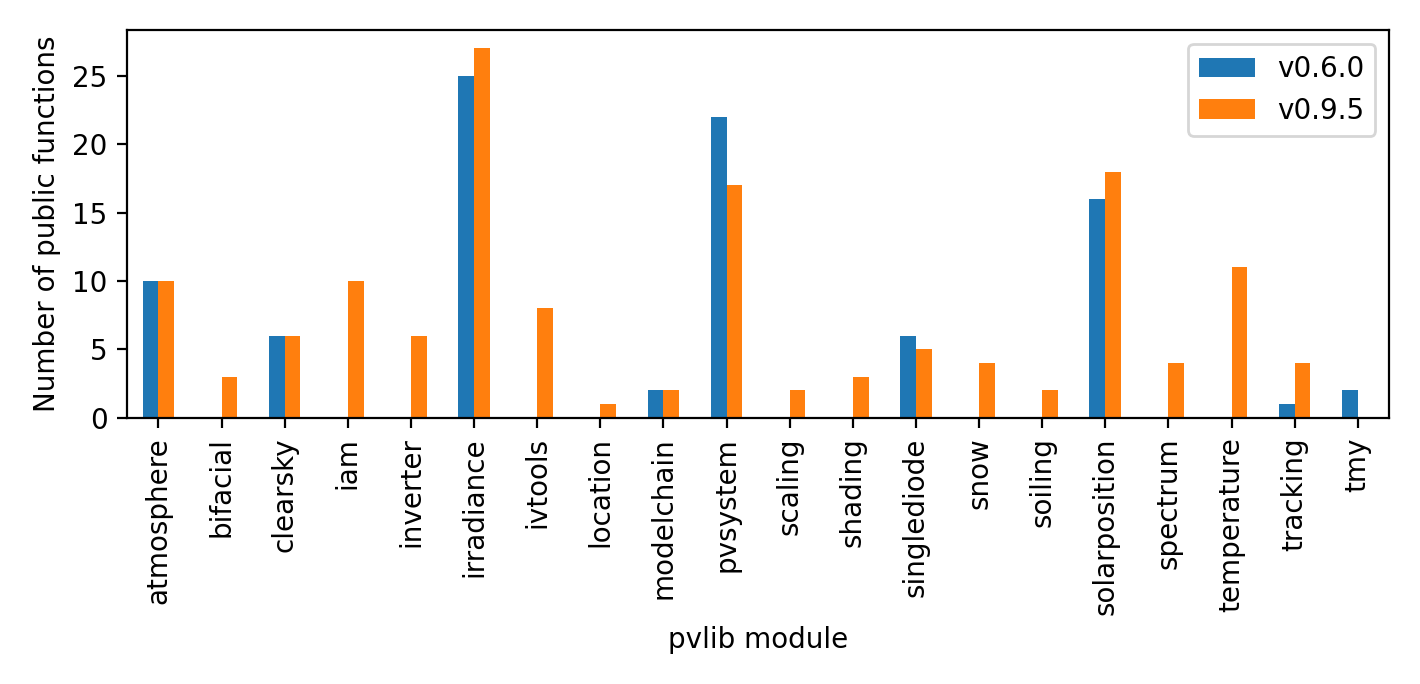
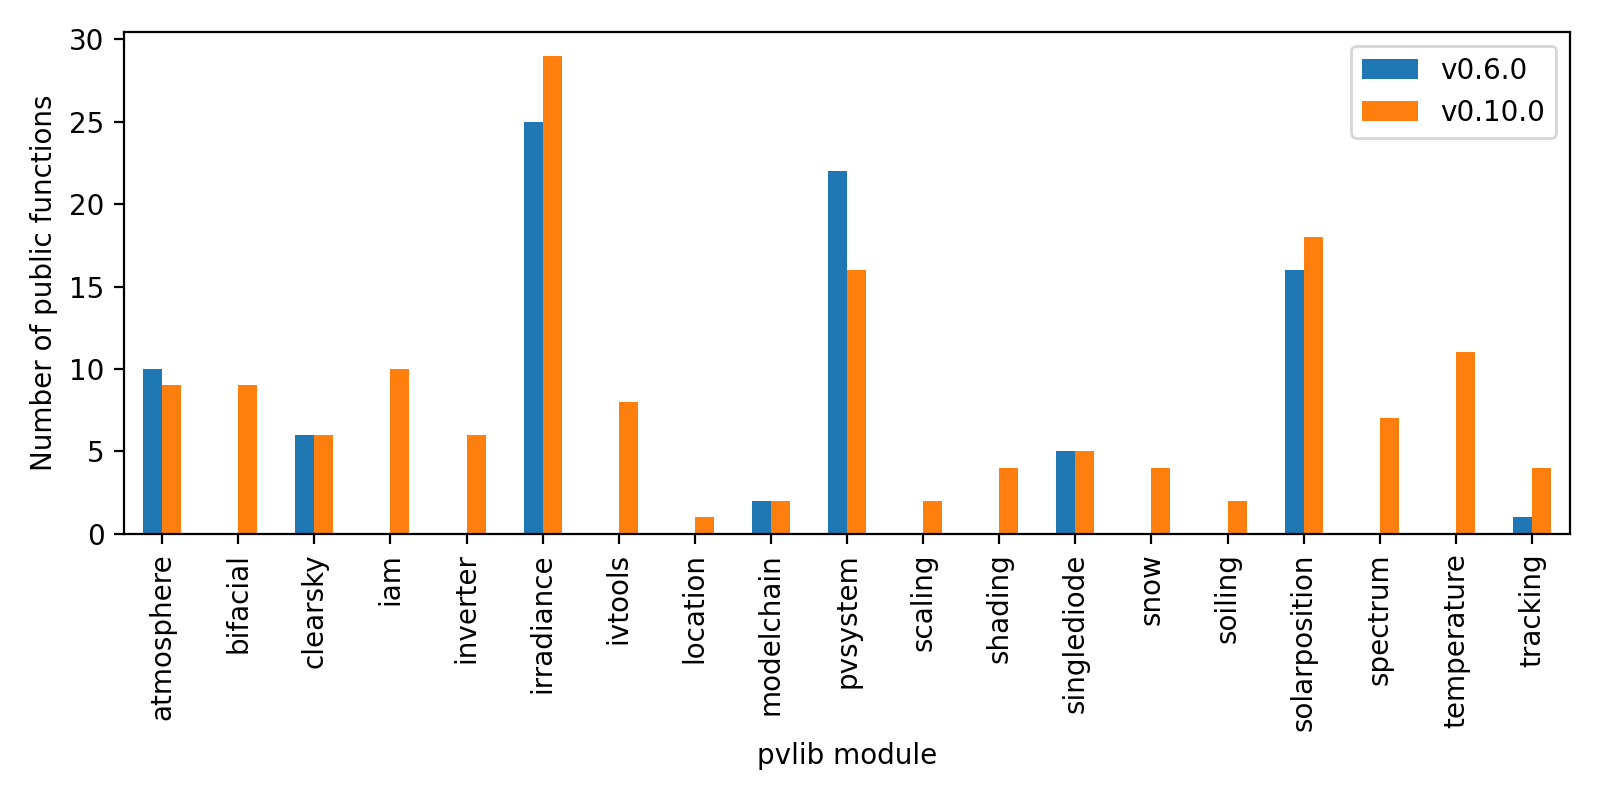
a bit of rewrite

Changed region(s): [[0.0, 0.0307, 0.9915, 0.9211], [0.4648, 0.9211, 0.6197, 0.9518], [0.2479, 0.3991, 0.2789, 0.4605]]

diff --git a/paper/2023/paper.md b/paper/2023/paper.md
@@ -48,31 +48,25 @@ including solar position algorithms, irradiance models, thermal models,
 and PV electrical models.  In addition to these individual low-level
 model implementations, pvlib python provides high-level constructs
 that chain these models together like building blocks to form complete
-"weather-to-power" phovoltaic system models.  It also provides functions to fetch
-and import weather datasets useful for PV modeling.  Unlike other
-popular software for PV modeling, pvlib python integrates natively
-with the rest of the Python ecosystem, making it easy to combine with
-packages for numerical optimization, plotting, and data manipulation,
-to list a few.
+"weather-to-power" phovoltaic system models.
 
-pvlib python has been developed since 2013 and follows modern best
+Unlike other popular software for PV modeling, pvlib python has the benefit
+of integrating natively with a general-purpose programming language (Python).
+In addition to being more flexible and powerful than a traditional graphical
+user interface, pvlib python's interface as a programming library
+allows it to be combined with other Python packages.  This enables
+integration with database query, data manipulation, numerical optimization,
+plotting, and reporting packages, to name just a few.
+
+pvlib python has been developed since 2015 and follows modern best
 practices for open-source python software, with comprehensive automated
-testing, standards-based packaging, and semantic versioning.
-\autoref{fig:timeline} shows a timeline of important events in
-the project's history.
+testing, standards-based packaging, and semantic versioning.  Its emphasis
+on re-use, community, transparency, and peer review has lead to its widespread
+adoption across the PV field [@Stein2022].
 
-![pvlib python major event timeline.\label{fig:timeline}](timeline2.png)
+Here we present an update on pvlib python describing capability
+and community development since our 2018 publication [@pvlibjoss2018].
 
-Python is proving to be the most common choice of programming language
-for open-source PV modeling and analysis software, with pvlib python
-being one member of a growing ecosystem [@Holmgren2018].  Within this
-broader Python-for-PV ecosystem are two packages in the pvlib "family":
-pvanalytics, a package for PV data quality assurance and feature recognition
-algorithms [@pvpmc2022_pvanalytics_update], and twoaxistracking, a package
-for simulating self-shading in arrays with two-axis solar trackers [@Jensen2022].
-
-Here we present an update on pvlib python, describing capability enhancements
-and community growth since our 2018 publication [@pvlibjoss2018].
 
 # Statement of need
 
@@ -95,13 +89,13 @@ The fact that pvlib python is meeting real needs is made evident by several metr
 
 1. Its 2018 JOSS publication, at the time of this writing,
 ranks 14th by citation count out of the 2000+ papers published by JOSS to date.
-2. The project is labeled a "critical project" on the Python Package Index
-(PyPI) due to being in the top 1% of all indexed python packages by download count.
+2. The Python Package Index (PyPI) classifies pvlib-python as "critical project"
+due to being in the top 1% of the index's packages by download count.
 3. The project's online documentation received over 400,000 page views
 in the past year.
 
 
-# Functionality additions from v0.6.0 to v0.9.5
+# Functionality additions from v0.6.0 to v0.10.0
 
 To meet new needs of the PV industry, substantial new functionality has been
 added in the roughly five years since the 2018 JOSS publication.
@@ -113,12 +107,12 @@ new modules within pvlib python.
 Notable additions include models for loss mechanisms like soiling and snow
 coverage, and methods of fitting PV performance models to measurements.
 Also, to meet the demand for modeling bifacial PV which has become
-a mainstream in recent years, new models have been added to pvlib to
+mainstream in recent years, new models have been added to pvlib to
 model rear-side irradiance.
 \autoref{fig:functions-comparison} summarizes the number of models per module
-for pvlib python versions 0.6.0 and 0.9.5.
+for pvlib python versions 0.6.0 and 0.10.0.
 
-![Comparison of public function counts by pvlib module for v0.6.0 and v0.9.5.  Some modules are smaller in v0.9.5 due to moving functions to new modules (e.g. moving functions from `pvsystem` to `iam`, and from `tmy` to `iotools`).\label{fig:functions-comparison}](functions_06_010.png)
+![Comparison of public function counts by pvlib module for v0.6.0 and v0.10.0. Some modules are smaller in v0.10.0 due to moving functions to new modules (e.g. moving functions from `pvsystem` to `iam`).\label{fig:functions-comparison}](functions_06_010.png)
 
 Second, in addition to the new function-level model implementations,
 the package's high-level classes have also been expanded to handle the complexity
@@ -130,8 +124,8 @@ Third, the creation of `pvlib.iotools`, a sub-package for fetching and parsing
 datasets relevant to PV modeling.  These functions provide a standardized
 interface for reading data files in various complex data formats, offering
 conveniences like optionally standardizing the dataset labels and units
-to pvlib conventions.  As of version 0.9.5, `pvlib.iotools` contains
-functions to download data from half a dozen weather dataset providers,
+to pvlib conventions [@Jensen2023].  As of version 0.10.0, `pvlib.iotools` contains
+functions to download data from half a dozen weather dataset providers (UPDATE),
 plus file reading/parsing functions for twice that number of solar resource file formats.
 
 These additions are discussed in more detail in [@pvpmc_2023_update] and [@pvpmc2022_pvlib_update].
@@ -141,35 +135,55 @@ project's documentation.
 
 # Community
 
-TODO: merged PRs by version
+It is difficult or impossible to comprehensively describe the community around
+open-source projects like pvlib python, but some aspects of it are more easily
+quantifiable than others.  Here we examine the community from a few convenient
+perspectives, but we emphasize that this is necessarily a limited view of
+the community as a whole.
 
-pvlib python's codebase contains contributions from over 100 people, spanning
-industry, academia, and government research institutions.
-\autoref{fig:contributors} tracks the number of code contributors over time.
+First, we examine contributors to pvlib python's code repository.  The
+project's use of version control software enables easy quantification of
+repository additions (to code, documentation, tests, etc) over time.  The
+project's repository currently comprises contributions from over 100 people
+spanning industry, academia, and government research institutions.
+\autoref{fig:contributors} tracks the number of unique repository
+contributors over time, demonstrating continued and generally accelerating
+attraction of new contributors.
 
 ![Unique code contributors per year (left) and cumulative total (right). TODO: update\label{fig:contributors}](contributors.png)
 
 However, the project as a whole is the product of not only of those who contribute
 code but also those who submit bug reports, propose ideas for new features,
-answer usage questions in online fora, and support the project in other ways.
-Quantifying the scale of this broader community is difficult, but we can at
-least report two easily tracked metrics: the number of people registered in
-the pvlib python online discussion forum, and the number of GitHub stars on
-the pvlib python code repository.  Although these numbers are likely substantial
-underestimates of the true number of pvlib users, their increase over time
-illustrates healthy community development: 
+participate in online fora, and support the project in other ways.
+Along those lines, two easily tracked metrics are the number of people
+registered in the pvlib python online discussion forum and the number of
+GitHub "stars" on the pvlib python code repository. Although these numbers
+almost certainly substantially underestimate the true number of pvlib users,
+their increase over time illustrates healthy community development:
 
 ![Counts of pvlib python forum members and GitHub stars over time. TODO: update\label{fig:contributors}](community.png)
 
-Finally, we highlight the pvlib tutorial sessions and users group meetings
-run by both pvlib python maintainers and broader community members in recent
-years.  To date, these meetings have been held at the IEEE Photovoltaics Specialists
+In addition to continuous interaction online, community members sometimes
+meet in person at user's group and tutorial sessions run by pvlib python
+maintainers and community members alike.
+To date, these meetings have been held at the IEEE Photovoltaics Specialists
 Conference (PVSC), the PVPMC Workshops, and PyData Global.
+\autoref{fig:timeline} shows a timeline of these meetings, along with other
+notable events in the project's history.
 
+![pvlib python major event timeline.\label{fig:timeline}](timeline2.png)
 
-# Commercial adoption
+Finally, it is worth pointing out that pvlib python contributors and users
+are part of a broader community around not just
+pvlib python but also other members of the pvlib "family": pvanalytics, a
+package for PV data quality assurance and feature recognition
+algorithms [@pvpmc2022_pvanalytics_update], and twoaxistracking, a package
+for simulating self-shading in arrays of two-axis solar trackers [@Jensen2022].
+Moreover, looking outside pvlib and its affiliated packages, we see that Python
+is proving to be the most common programming language for open-source PV
+modeling and analysis software in general.  The packages mentioned here
+make up one portion of a growing landscape of Python-for-PV projects [@Holmgren2018].
 
-TODO
 
 # Acknowledgements
 
@@ -178,7 +192,7 @@ volunteer basis, the project has also benefited from projects funded by various
 sources, including:
 
 - The U.S. Department of Energy’s Solar Energy Technology Office, through
-  the PV Performance Modeling Collaborative and other projects
+  the PV Performance Modeling Collaborative (PVPMC) and other projects
 - NumFOCUS's Small Development Grant program
 - Google's Summer of Code program
 
@@ -200,6 +214,7 @@ Additional authors?
 
 The future?
 
-Other "pvlib family" projects?
+Commercial adoption?
+
 
 # References
